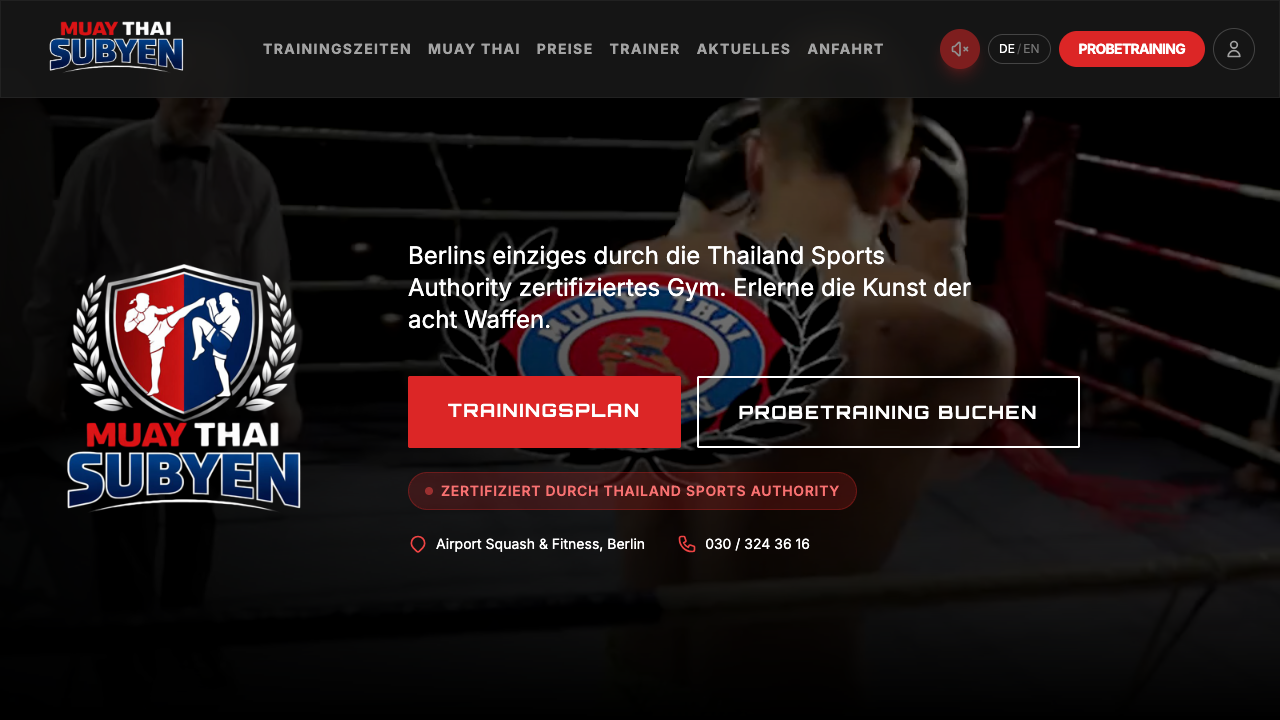
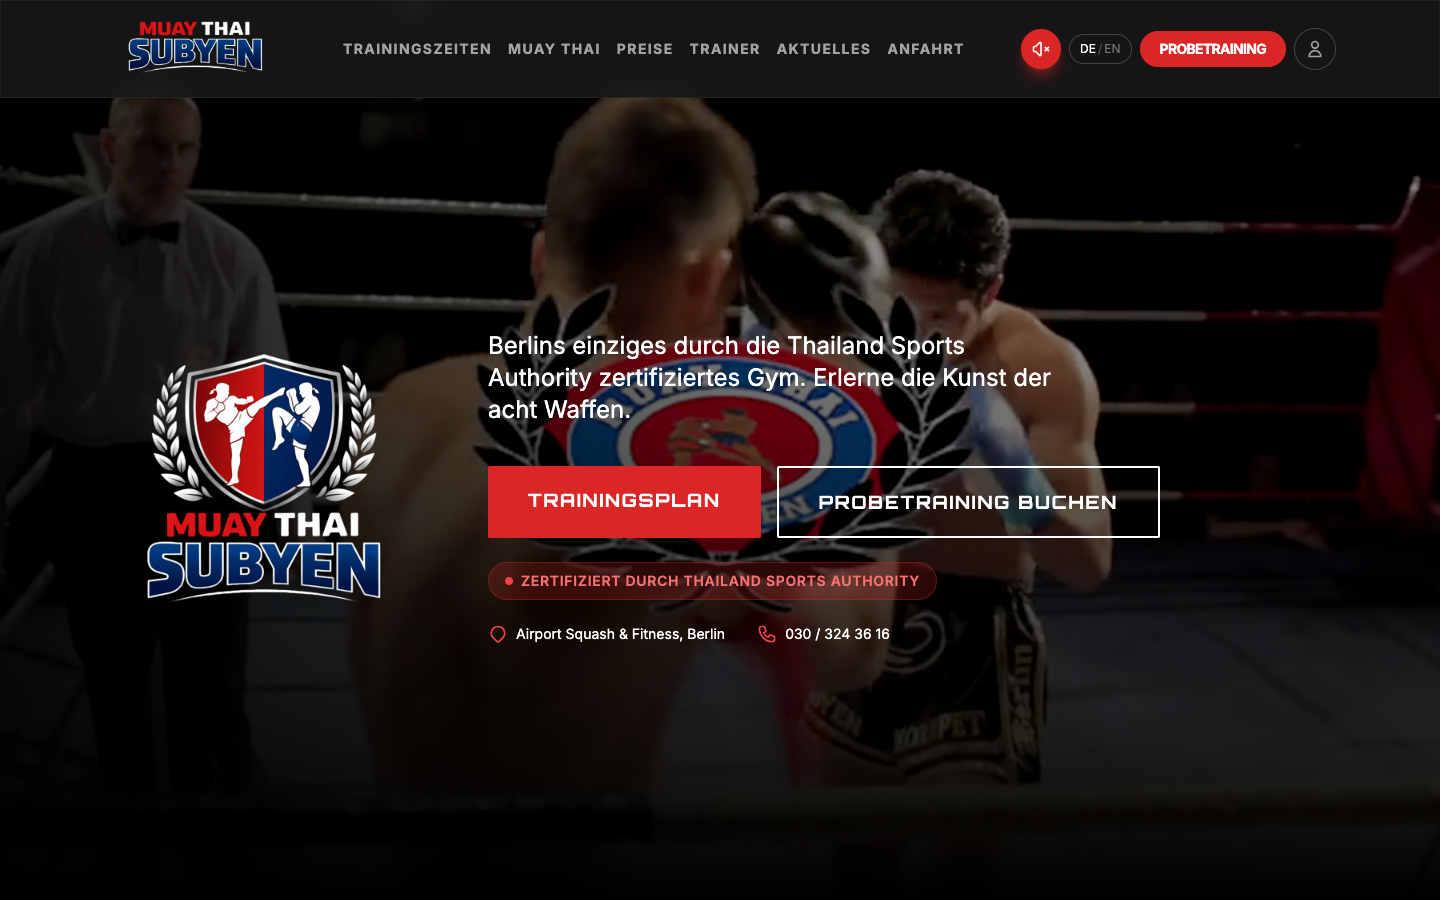
Fix portfolio: remove Praxis Datt, fix screenshot sizing, proper aspect ratio
- Remove Praxis Stefan Datt from portfolio and client logos (not yet a client)
- Retake screenshots at 1440x900 for proper full-viewport capture
- Use fixed aspect-[16/10] container instead of h-full/object-top
- Images now centered and properly displayed on desktop

diff --git a/components/PortfolioSection.tsx b/components/PortfolioSection.tsx
@@ -21,15 +21,6 @@ const PortfolioSection: React.FC = () => {
       image: '/portfolio/ropefx.png',
       result: 'Professionelle Positionierung mit klaren Services und direkter Kontaktaufnahme',
     },
-    {
-      title: 'Praxis Stefan Datt',
-      type: 'Gesundheit & Physiotherapie',
-      desc: 'Physiotherapie-Praxis in Charlottenburg. Warme Farben, Team-Vorstellung, Leistungsübersicht und Galerie mit echten Praxisfotos.',
-      tags: ['Website', 'Galerie', 'Team-Seite', 'Responsive Design'],
-      url: 'https://praxis-stefan-datt.vercel.app',
-      image: '/portfolio/praxis-stefan-datt.png',
-      result: 'Authentischer Webauftritt mit echten Fotos, Team-Profilen und allen Leistungen',
-    },
   ];
 
   return (
@@ -53,14 +44,16 @@ const PortfolioSection: React.FC = () => {
                   href={p.url}
                   target="_blank"
                   rel="noopener noreferrer"
-                  className={`relative block overflow-hidden ${idx % 2 === 1 ? 'lg:col-start-2' : ''}`}
+                  className={`relative block overflow-hidden bg-zinc-800 ${idx % 2 === 1 ? 'lg:col-start-2' : ''}`}
                 >
-                  <img
-                    src={p.image}
-                    alt={p.title}
-                    className="w-full h-full object-cover object-top min-h-[240px] lg:min-h-[360px] group-hover:scale-105 transition-transform duration-500"
-                    loading="lazy"
-                  />
+                  <div className="aspect-[16/10]">
+                    <img
+                      src={p.image}
+                      alt={p.title}
+                      className="w-full h-full object-cover object-center group-hover:scale-105 transition-transform duration-500"
+                      loading="lazy"
+                    />
+                  </div>
                   <div className="absolute inset-0 bg-gradient-to-t from-black/40 to-transparent opacity-0 group-hover:opacity-100 transition-opacity duration-300 flex items-end justify-center pb-6">
                     <span className="text-white text-sm font-semibold flex items-center gap-1.5">
                       Live ansehen <ExternalLink className="w-3.5 h-3.5" />

diff --git a/components/ClientLogos.tsx b/components/ClientLogos.tsx
@@ -4,7 +4,6 @@ const ClientLogos: React.FC = () => {
   const clients = [
     { name: 'Muay Thai Subyen e.V.', url: 'https://muay-thai-subyen.vercel.app' },
     { name: 'ropeFX Berlin', url: 'https://ropefx.vercel.app' },
-    { name: 'Praxis Stefan Datt', url: 'https://praxis-stefan-datt.vercel.app' },
   ];
 
   return (
